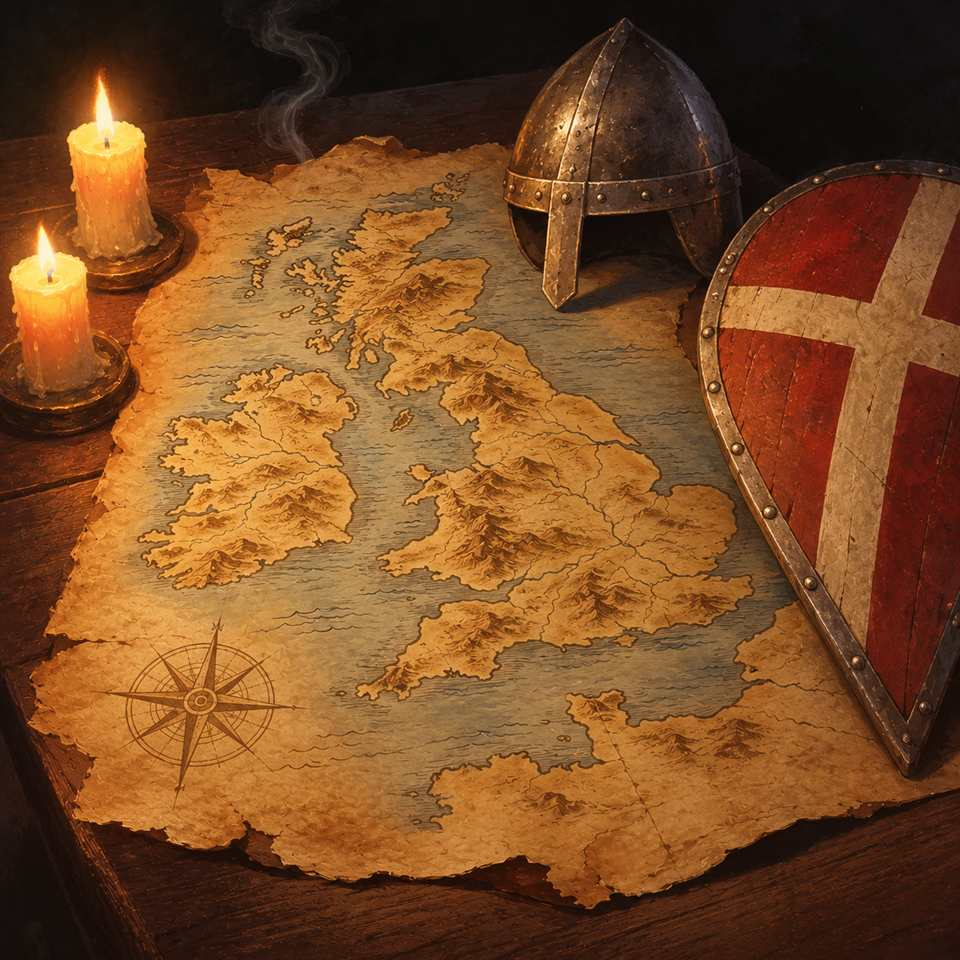
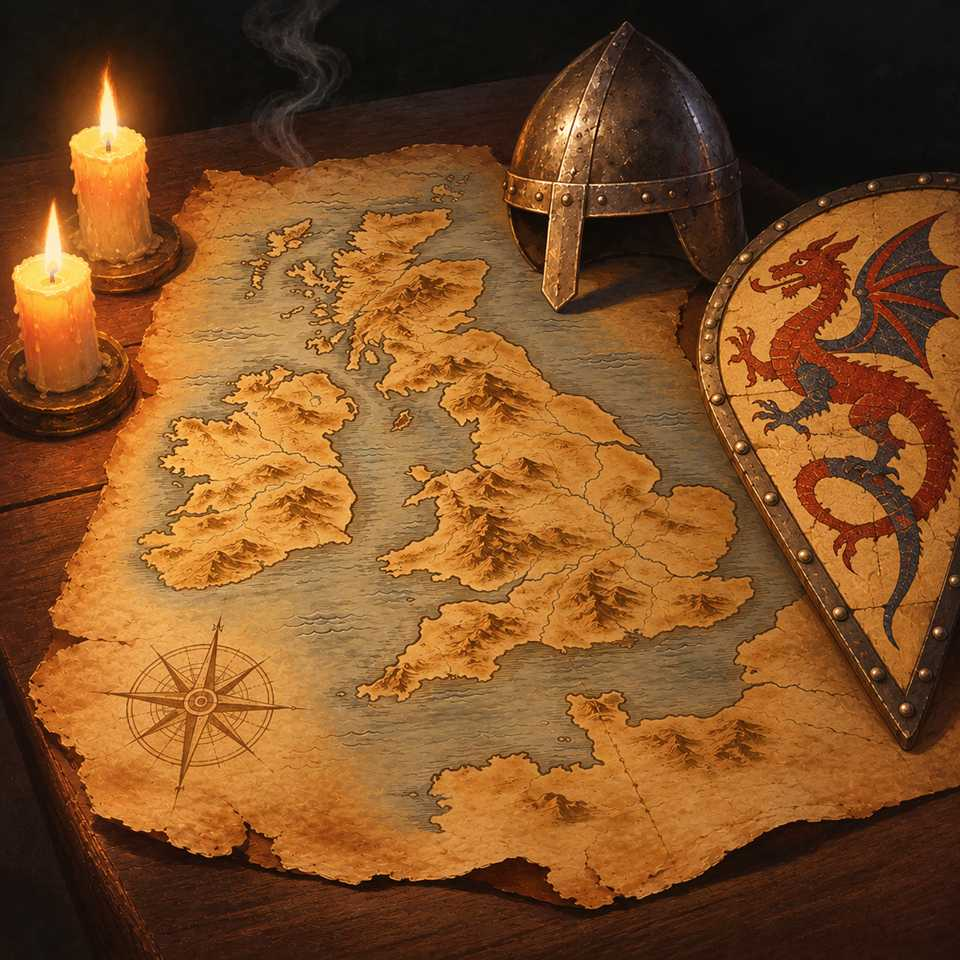
De tre kongeriger and Djengis Khan have pictures, and England's shield a dragon

diff --git a/js/togter.js b/js/togter.js
@@ -15,10 +15,10 @@
 export const TOGTER = [
   { map: 'italy', opponents: 2, home: 'la', goal: ['la', 'sa', 'mg', 'um'], bonus: 0.5, art: 'assets/togter/italy.jpg' },
   { map: 'alexander', opponents: 2, home: 'hl', goal: ['la', 'me', 'pe'], art: 'assets/togter/alexander.jpg' },
-  { map: 'threekingdoms', opponents: 3, home: 'zy', goal: ['sh', 'jz', 'jd'], bonus: 0.8 },
+  { map: 'threekingdoms', opponents: 3, home: 'zy', goal: ['sh', 'jz', 'jd'], bonus: 0.8, art: 'assets/togter/threekingdoms.jpg' },
   { map: 'vikings', opponents: 2, home: 'dk', goal: ['dk', 'br', 'no'], bonus: 0.2, art: 'assets/togter/vikings.jpg' },
   { map: 'england', opponents: 3, home: 'nm', goal: ['wx', 'me', 'ea'], art: 'assets/togter/england.jpg' },
-  { map: 'genghis', opponents: 3, home: 'mo', goal: ['xx', 'hb', 'tx'], bonus: 0.65 },
+  { map: 'genghis', opponents: 3, home: 'mo', goal: ['xx', 'hb', 'tx'], bonus: 0.65, art: 'assets/togter/genghis.jpg' },
   { map: 'inka', opponents: 3, home: 'hd', goal: ['ch', 'co', 'cm'], bonus: 0.5 },
   { map: 'constantinople', opponents: 3, home: 'an', goal: ['tr', 'gr', 'sr'], bonus: 0.5 },
   { map: 'songhai', opponents: 3, home: 'so', goal: ['nb', 'nd'], plusOne: true, bonus: 0.6 },

diff --git a/LICENSES.md b/LICENSES.md
@@ -8,7 +8,7 @@ Alt i spillet er lavet til spillet, undtagen:
 | `assets/paper.jpg` | Papirtekstur (Paper 003, farvebilledet) | [ambientCG](https://ambientcg.com/view?id=Paper003) | [CC0](https://creativecommons.org/publicdomain/zero/1.0/) |
 | `assets/music/theme.mp3` | Temamusikken "Rulers of the Map – Theme" | Lavet med AI hos [Abracadabrax](https://abracadabrax.app), model "Abracadabrax Instrumental" (Stable Audio), 1/11-2026 | Vores til kommerciel brug: modellen er mærket "cleared for commercial use", og [vilkårene](https://abracadabrax.app/terms) giver ejerskab og kommerciel brug (læst 1/11-2026) |
 | `assets/togter/italy.jpg`, `alexander.jpg`, `vikings.jpg` | Billederne bag togternes årstal (Rom, Alexander, Vikingetogtet) | Lavet med AI hos Abracadabrax, model Seedream 4.5 (ByteDance), 1/11-2026, gjort mindre til 960 px, AI'ens opdigtede ord visket ud | Som musikken: ejerskab og kommerciel brug efter Abracadabrax' vilkår og FAQ (læst 1/11-2026) |
-| `assets/togter/liberation.jpg`, `west.jpg`, `england.jpg` | Billederne bag de øvrige togters årstal (Befrielsen, Vesten, England) | Lavet med AI i ChatGPT (OpenAI) med vores billeder som stilforlæg, 2/11-2026, gjort mindre til 960 px, AI'ens opdigtede ord visket ud, hvor der var nogen | Vores: OpenAIs [vilkår for Europa](https://openai.com/policies/eu-terms-of-use/) giver brugeren ejerskab til det, der laves, også kommercielt (læst 2/11-2026) |
+| `assets/togter/liberation.jpg`, `west.jpg`, `england.jpg`, `threekingdoms.jpg`, `genghis.jpg` | Billederne bag de øvrige togters årstal (Befrielsen, Vesten, England, De tre kongeriger, Djengis Khan) | Lavet med AI i ChatGPT (OpenAI) med vores billeder som stilforlæg, 2.–3/11-2026, gjort mindre til 960 px, AI'ens opdigtede ord visket ud, hvor der var nogen | Vores: OpenAIs [vilkår for Europa](https://openai.com/policies/eu-terms-of-use/) giver brugeren ejerskab til det, der laves, også kommercielt (læst 2/11-2026) |
 
 Kortet, kystlinjerne, kortsymbolerne og lydene er tegnet og lavet i koden.
 
